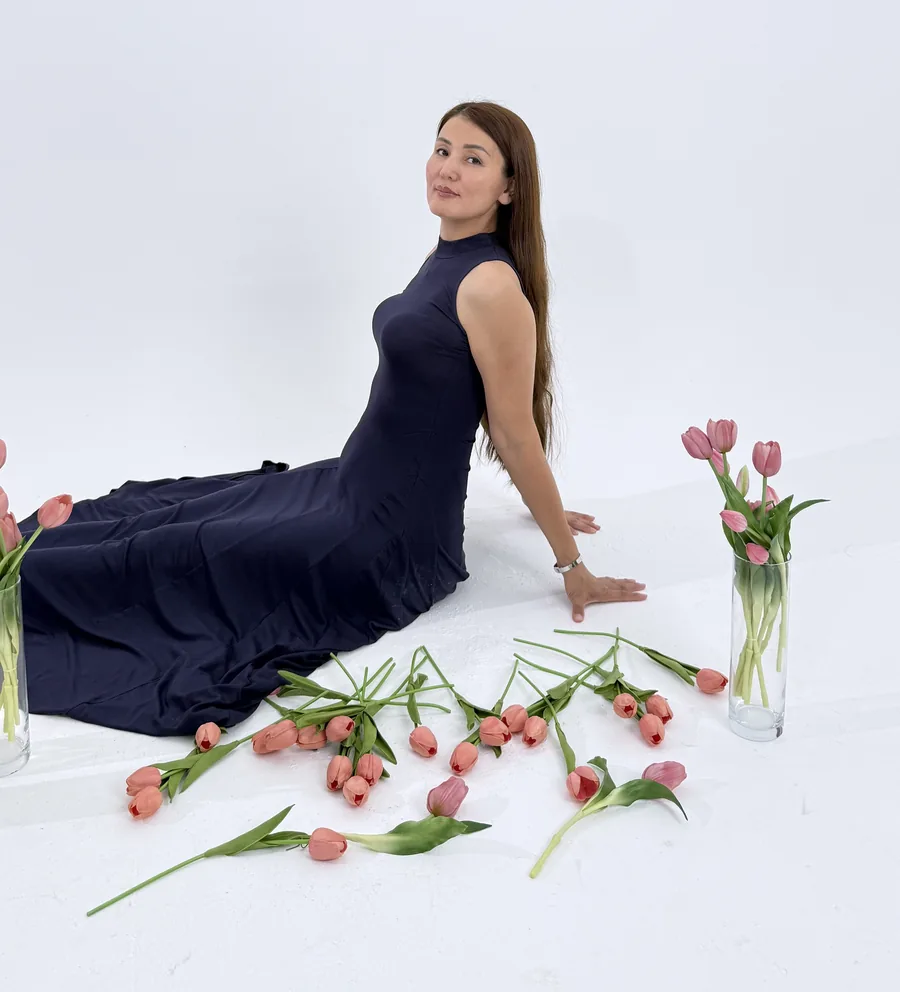
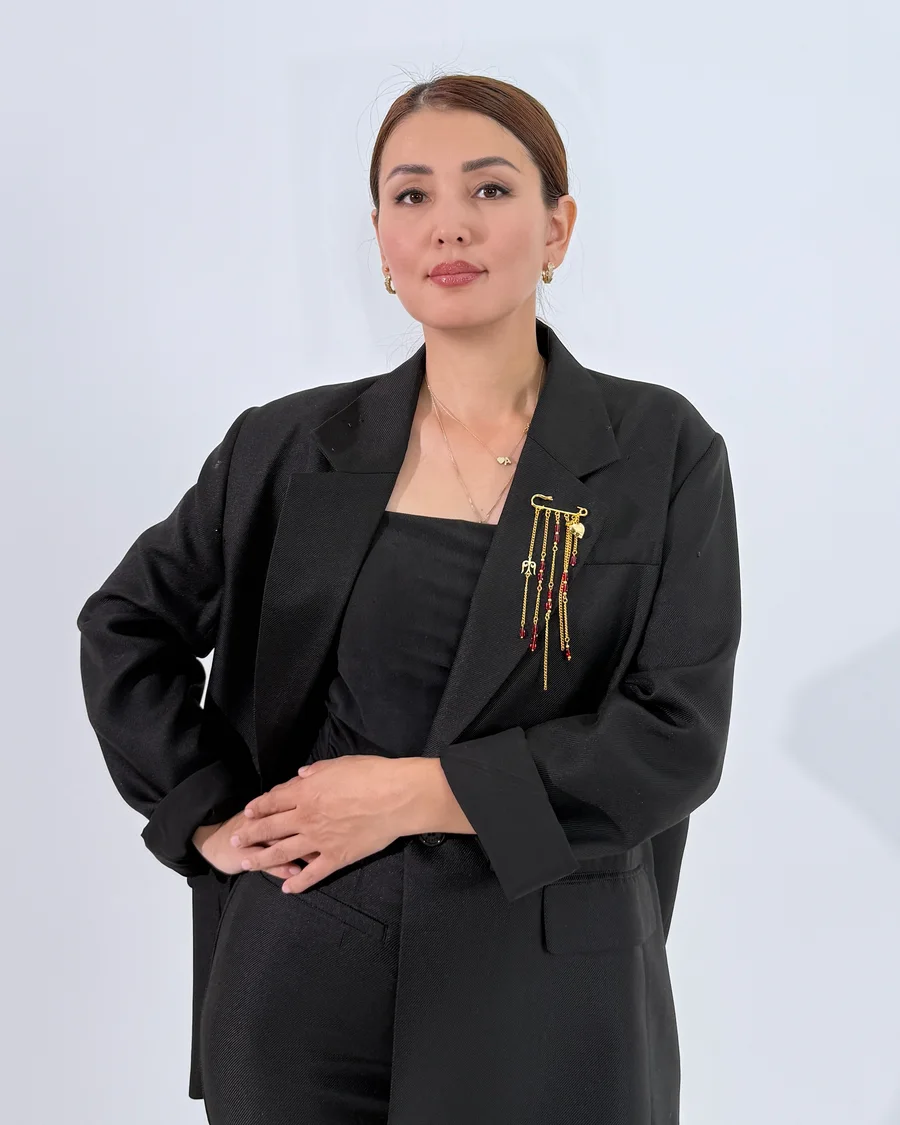
New photo in About section

diff --git a/index.html b/index.html
@@ -89,8 +89,8 @@ section{padding:52px 0 0}
 
 /* about */
 .about{display:grid;gap:18px;margin-top:24px}
-.about-img{border-radius:28px;overflow:hidden;aspect-ratio:1/1;background:var(--rose-50)}
-.about-img img{width:100%;height:100%;object-fit:cover;object-position:50% 30%}
+.about-img{border-radius:28px;overflow:hidden;aspect-ratio:4/5;background:var(--rose-50)}
+.about-img img{width:100%;height:100%;object-fit:cover;object-position:50% 20%}
 .about p{font-size:15px}
 .about p+p{margin-top:10px}
 
@@ -245,7 +245,7 @@ footer img{height:40px;width:auto;margin:0 auto 10px;opacity:.85}
   <section id="about">
     <h2 class="h2 rv" data-i18n="aboutT">О мастере</h2><i class="orn"></i>
     <div class="about">
-      <div class="about-img rv"><img src="img/about.webp" alt="Акбала Сагизбек" loading="lazy" width="900" height="992"></div>
+      <div class="about-img rv"><img src="img/about.webp?v=2" alt="Акбала Сагизбек" loading="lazy" width="900" height="1125"></div>
       <div class="rv">
         <p data-i18n="about1">Я — Акбала Сагизбек, детский массажист с 5-летним опытом. Работаю с малышами в Актобе: массаж для правильного развития, логомассаж для поддержки речи, гидромассаж для укрепления здоровья.</p>
         <p data-i18n="about2">Для каждого ребёнка составляю индивидуальную или комплексную программу. Провожу авторский курс детского массажа для специалистов.</p>
